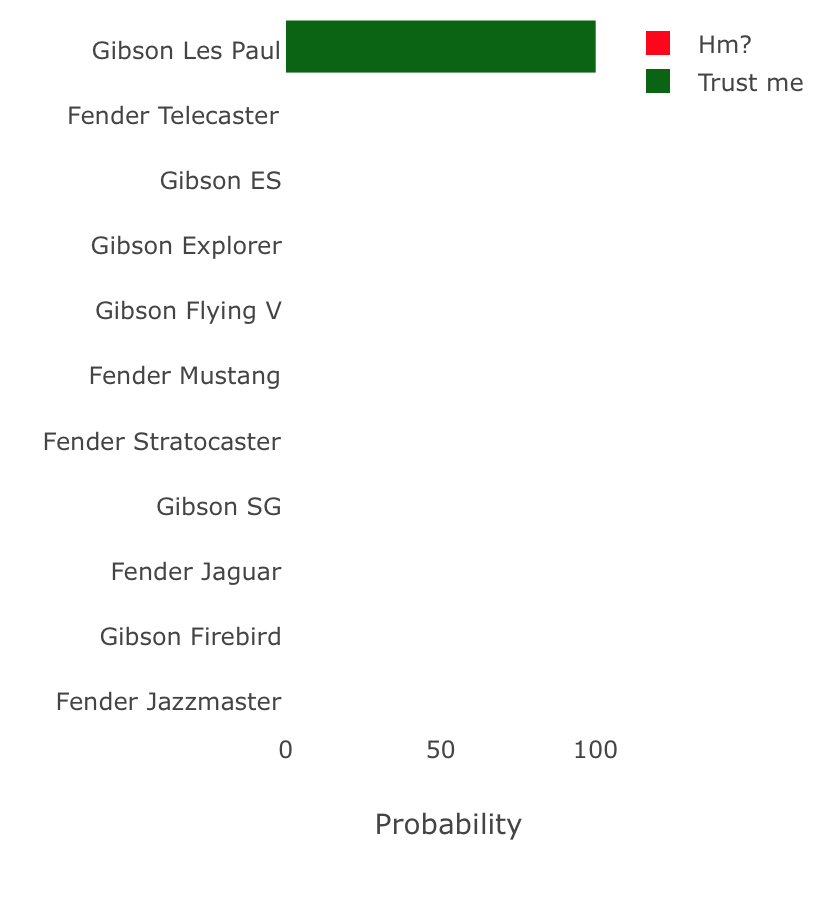
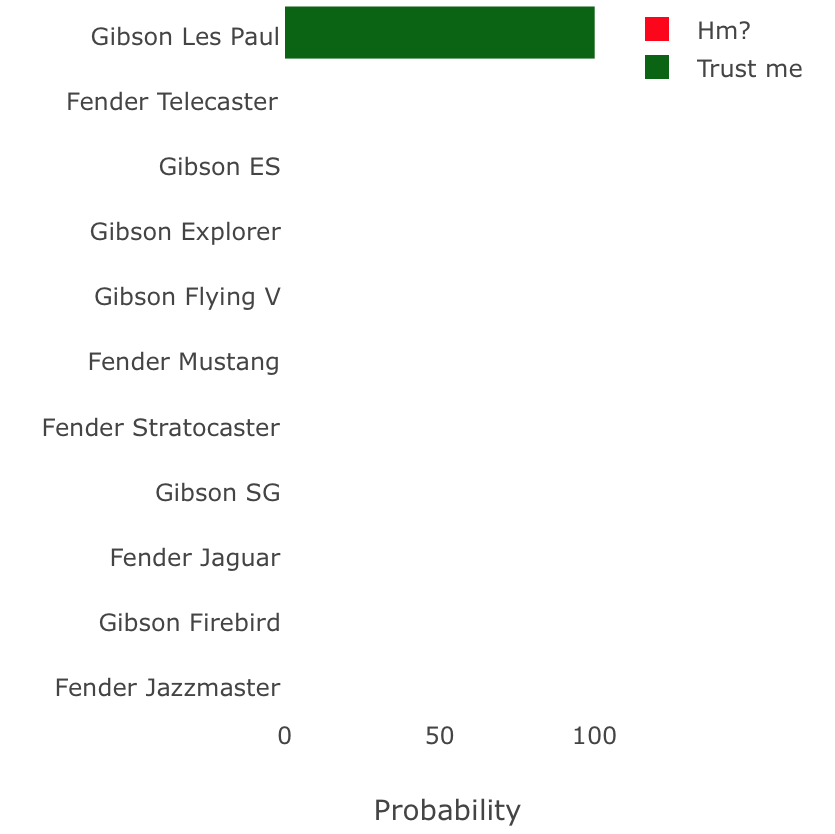
Limit predicxt classes to top seven

diff --git a/templates/index.html b/templates/index.html
@@ -37,7 +37,7 @@
                   {% if img_src %}
                     <img src="{{img_src}}" class="img-rounded">
                   {% else %}
-                    <img src="{{url_for('static', filename='img/les_paul.jpg')}}" width=500 height=500 class="img-rounded">
+                    <img src="{{url_for('static', filename='img/les_paul.jpg')}}" width=400 height=400 class="img-rounded">
                   {% endif %}
                 </figure>
             </article>
@@ -49,7 +49,7 @@
                 <div id="graph-0"></div>
                 {% else %}
                 <h2 class="title">Prediction: Gibson Les Paul</h2>
-                <img src="{{url_for('static', filename='img/les_paul_predict.png')}}" width=500 class="img-rounded">
+                <img src="{{url_for('static', filename='img/les_paul_predict.png')}}" width=400 class="img-rounded">
                 {% endif %}
 
             </article>

diff --git a/plot.py b/plot.py
@@ -8,14 +8,15 @@ import plotly.graph_objs as go
 
 def prediction_barchart(result, class_labels, class_dict=None):
 
+    LIMIT = 7
     # data is list of name, value pairs
     y_values, x_values = map(list, zip(*result))
     # Create the Plotly Data Structure
 
-    x_values = [x  if x < 0 else x for x in x_values]
+    x_values = [x  if x < 0 else x for x in x_values][:LIMIT]
     if class_dict:
         y_values = [class_dict[y] for y in y_values]
-
+    y_values = y_values[:LIMIT]
     # classify based on prob.
     labels = ['Hm?', 'Maybe', 'Probably', 'Trust me']
     cols   = ['red', 'orange', 'lightgreen', 'darkgreen']
